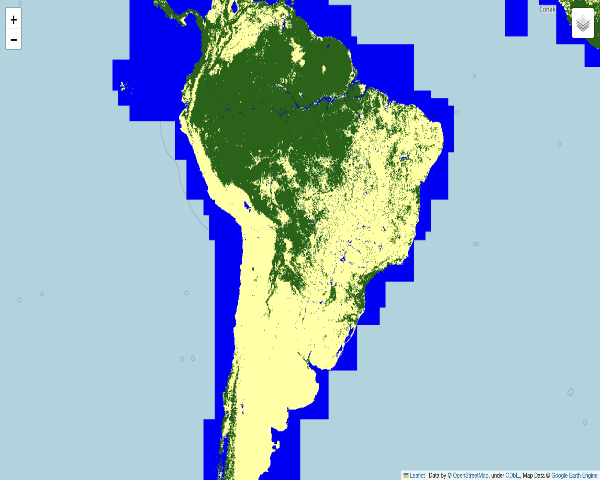
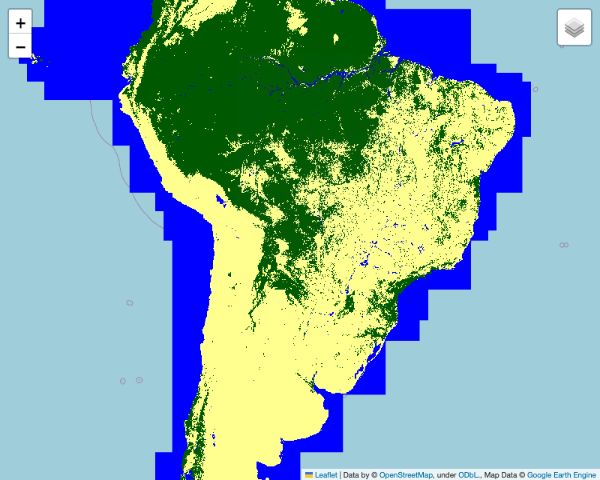
fixed headless issue

diff --git a/deforestationMap.html b/deforestationMap.html
@@ -25,7 +25,7 @@
             <meta name="viewport" content="width=device-width,
                 initial-scale=1.0, maximum-scale=1.0, user-scalable=no" />
             <style>
-                #map_958211e067be3ecc4d4df04384179828 {
+                #map_b8c91f75fac9209f817e7f4fd2ed0678 {
                     position: relative;
                     width: 100.0%;
                     height: 100.0%;
@@ -39,14 +39,14 @@
 <body>
     
     
-            <div class="folium-map" id="map_958211e067be3ecc4d4df04384179828" ></div>
+            <div class="folium-map" id="map_b8c91f75fac9209f817e7f4fd2ed0678" ></div>
         
 </body>
 <script>
     
     
-            var map_958211e067be3ecc4d4df04384179828 = L.map(
-                "map_958211e067be3ecc4d4df04384179828",
+            var map_b8c91f75fac9209f817e7f4fd2ed0678 = L.map(
+                "map_b8c91f75fac9209f817e7f4fd2ed0678",
                 {
                     center: [-20.0, -60.0],
                     crs: L.CRS.EPSG3857,
@@ -60,31 +60,31 @@
 
         
     
-            var tile_layer_91d3ae3e9705642075ad6f265a69d9cb = L.tileLayer(
+            var tile_layer_c5d4c19bfa57bbb1f60974a0e4c49ee5 = L.tileLayer(
                 "https://{s}.tile.openstreetmap.org/{z}/{x}/{y}.png",
                 {"attribution": "Data by \u0026copy; \u003ca target=\"_blank\" href=\"http://openstreetmap.org\"\u003eOpenStreetMap\u003c/a\u003e, under \u003ca target=\"_blank\" href=\"http://www.openstreetmap.org/copyright\"\u003eODbL\u003c/a\u003e.", "detectRetina": false, "maxNativeZoom": 18, "maxZoom": 18, "minZoom": 0, "noWrap": false, "opacity": 1, "subdomains": "abc", "tms": false}
-            ).addTo(map_958211e067be3ecc4d4df04384179828);
+            ).addTo(map_b8c91f75fac9209f817e7f4fd2ed0678);
         
     
-            var tile_layer_c12d5139d530f3c39fba316b87378bb5 = L.tileLayer(
-                "https://earthengine.googleapis.com/v1alpha/projects/earthengine-legacy/maps/1c5b706b8292a20bce269a3cecd6ac7b-d454cdce186d7e90ddae324b7088e44d/tiles/{z}/{x}/{y}",
+            var tile_layer_0ad9e5b173b822fd83c0362468e423c5 = L.tileLayer(
+                "https://earthengine.googleapis.com/v1alpha/projects/earthengine-legacy/maps/1c5b706b8292a20bce269a3cecd6ac7b-9509ca1e28cc789441018ff5fbbadd6f/tiles/{z}/{x}/{y}",
                 {"attribution": "Map Data \u00a9 \u003ca href=\"https://earthengine.google.com/\"\u003eGoogle Earth Engine\u003c/a\u003e", "detectRetina": false, "maxNativeZoom": 18, "maxZoom": 18, "minZoom": 0, "noWrap": false, "opacity": 1, "subdomains": "abc", "tms": false}
-            ).addTo(map_958211e067be3ecc4d4df04384179828);
+            ).addTo(map_b8c91f75fac9209f817e7f4fd2ed0678);
         
     
-            var layer_control_59643e8682a7225e896f68e9c70d948c = {
+            var layer_control_74fc5580f0adfa7192687875e71c42ba = {
                 base_layers : {
-                    "openstreetmap" : tile_layer_91d3ae3e9705642075ad6f265a69d9cb,
+                    "openstreetmap" : tile_layer_c5d4c19bfa57bbb1f60974a0e4c49ee5,
                 },
                 overlays :  {
-                    "Forest/Non-Forest" : tile_layer_c12d5139d530f3c39fba316b87378bb5,
+                    "Forest/Non-Forest" : tile_layer_0ad9e5b173b822fd83c0362468e423c5,
                 },
             };
             L.control.layers(
-                layer_control_59643e8682a7225e896f68e9c70d948c.base_layers,
-                layer_control_59643e8682a7225e896f68e9c70d948c.overlays,
+                layer_control_74fc5580f0adfa7192687875e71c42ba.base_layers,
+                layer_control_74fc5580f0adfa7192687875e71c42ba.overlays,
                 {"autoZIndex": true, "collapsed": true, "position": "topright"}
-            ).addTo(map_958211e067be3ecc4d4df04384179828);
+            ).addTo(map_b8c91f75fac9209f817e7f4fd2ed0678);
         
 </script>
 </html>

diff --git a/helpers.py b/helpers.py
@@ -48,12 +48,12 @@ def getBeforeAndAfterImages(coordinates):
     my_map.save('/Users/sasankgamini/Desktop/GDSCProject/GDSCProject/deforestationMap.html')
     mapurl = "file:///Users/sasankgamini/Desktop/GDSCProject/GDSCProject/deforestationMap.html" #You have to give full path to your HTML file
     chrome_options = Options()
-    # chrome_options.add_argument('--headless')
+    chrome_options.add_argument('--headless')
     # chrome_options.add_argument('window-size=1600,900')
     # driver = webdriver.Chrome(options=chrome_options)
     driver = webdriver.Chrome(options=chrome_options)
     driver.get(mapurl)
-    time.sleep(3)
+    time.sleep(1)
     driver.save_screenshot("static/outputBefore.png")
     driver.quit()
 
@@ -83,12 +83,11 @@ def getBeforeAndAfterImages(coordinates):
     my_map1.save('/Users/sasankgamini/Desktop/GDSCProject/GDSCProject/deforestationMap.html')
     mapurl1 = "file:///Users/sasankgamini/Desktop/GDSCProject/GDSCProject/deforestationMap.html" #You have to give full path to your HTML file
     chrome_options1 = Options()
-    # chrome_options1.add_argument('--headless')
+    chrome_options1.add_argument('--headless')
     # chrome_options1.add_argument('window-size=1600,900')
-    # driver1 = webdriver.Chrome(options=chrome_options1)
     driver1 = webdriver.Chrome(options=chrome_options1)
     driver1.get(mapurl)
-    time.sleep(3)
+    time.sleep(1)
     driver1.save_screenshot("static/outputAfter.png")
     driver1.quit()
 

diff --git a/app.py b/app.py
@@ -18,7 +18,7 @@ def index():
             os.remove('static/outputBefore.png')
             os.remove('static/result.png')
         except:
-            print('hello')
+            pass
         helpers.getBeforeAndAfterImages(coordinates)
         return redirect('/result')
         
